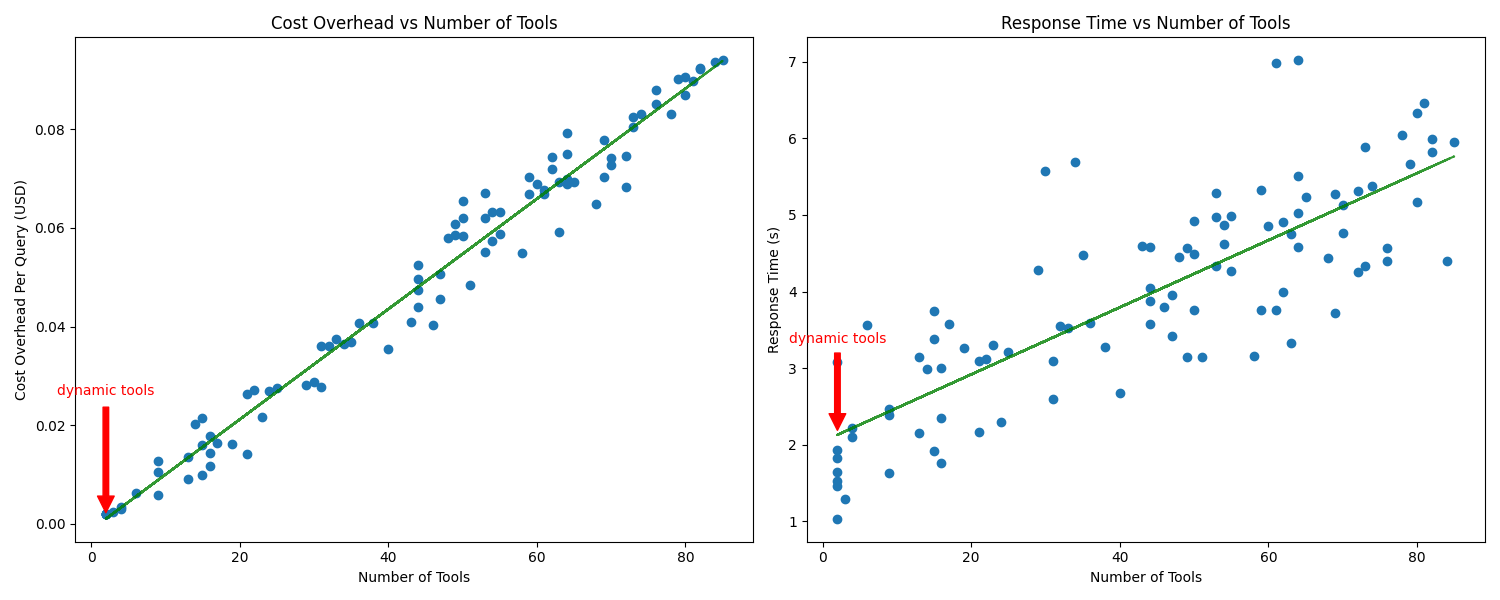
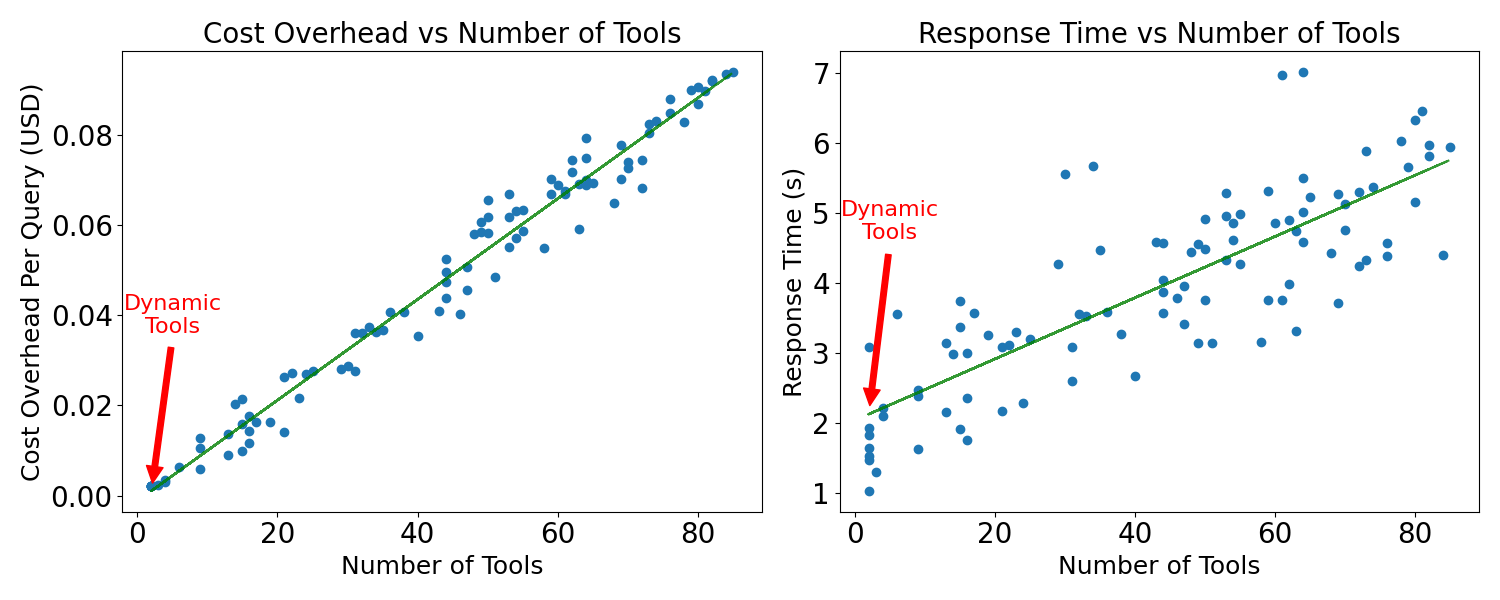
increase font size

diff --git a/main.py b/main.py
@@ -27,7 +27,7 @@ async def get_all_toolkit_ids():
     
     toolkit_ids = set()
     for action in available_actions:
-        action_id = action["action"]
+        action_id = action.get("action", "")
         if not re.match(r'^[a-zA-Z0-9_-]{1,64}$', action_id):
             print(f"Skipping action ID: {action_id}")
             continue
@@ -97,36 +97,49 @@ def plot_results(results_file="benchmark_results.jsonl", show=False):
     # Create plots
     fig, (ax1, ax2) = plt.subplots(1, 2, figsize=(15, 6))
     
+    # Set global font sizes - approximately 2x larger
+    plt.rcParams.update({
+        'font.size': 14,
+        'axes.titlesize': 20,
+        'axes.labelsize': 18,
+        'xtick.labelsize': 20,
+        'ytick.labelsize': 20,
+        'legend.fontsize': 14,
+        'figure.titlesize': 22
+    })
+    
     # Plot 1: Input tokens vs number of tools
     ax1.scatter(n_tools, costs)
-    ax1.set_xlabel("Number of Tools")
-    ax1.set_ylabel("Cost Overhead Per Query (USD)")
-    ax1.set_title("Cost Overhead vs Number of Tools")
+    ax1.set_xlabel("Number of Tools", fontsize=18)
+    ax1.set_ylabel("Cost Overhead Per Query (USD)", fontsize=18)
+    ax1.set_title("Cost Overhead vs Number of Tools", fontsize=20)
+    ax1.tick_params(axis='both', which='major', labelsize=20)
     
     # Linear regression for costs
     z = np.polyfit(n_tools, costs, 1)
     p = np.poly1d(z)
     ax1.plot(n_tools, p(n_tools), "g--", alpha=0.8)
     # Add arrow at x=2 pointing to regression line
-    ax1.annotate("dynamic tools", xy=(2, p(2)), xytext=(2, p(2)+0.025), 
+    ax1.annotate("Dynamic\nTools", xy=(2, p(2)), xytext=(5, p(2)+0.035), 
                  arrowprops=dict(facecolor='red', edgecolor='red', shrink=0.05), 
-                 color='red', ha='center')
+                 color='red', ha='center', fontsize=16)
     # ax1.text(0.05, 0.95, f"y = {z[0]:.2f}x + {z[1]:.2f}", transform=ax1.transAxes)
     
     # Plot 2: Response time vs number of tools
     ax2.scatter(n_tools, response_times)
-    ax2.set_xlabel("Number of Tools")
-    ax2.set_ylabel("Response Time (s)")
-    ax2.set_title("Response Time vs Number of Tools")
+    ax2.set_xlabel("Number of Tools", fontsize=18)
+    ax2.set_ylabel("Response Time (s)", fontsize=18)
+    ax2.set_title("Response Time vs Number of Tools", fontsize=20)
+    ax2.tick_params(axis='both', which='major', labelsize=20)
     
     # Linear regression for response time
     z = np.polyfit(n_tools, response_times, 1)
     p = np.poly1d(z)
     ax2.plot(n_tools, p(n_tools), "g--", alpha=0.8)
     # Add arrow at x=2 pointing to regression line
-    ax2.annotate("dynamic tools", xy=(2, p(2)), xytext=(2, p(2)+1.2), 
+    ax2.annotate("Dynamic\nTools", xy=(2, p(2)), xytext=(5, p(2)+2.5), 
                  arrowprops=dict(facecolor='red', edgecolor='red', shrink=0.05), 
-                 color='red', ha='center')
+                 color='red', ha='center', fontsize=16)
     # ax2.text(0.05, 0.95, f"y = {z[0]:.2f}x + {z[1]:.2f}", transform=ax2.transAxes)
     
     plt.tight_layout()
